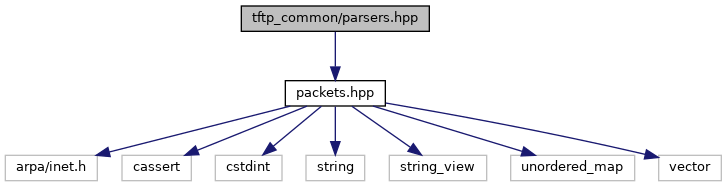
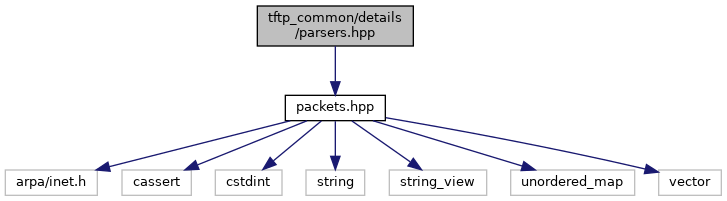
Deploying to gh-pages from @ eoan-ermine/tftp_common@93c7ecd1760b97784c4ff6c49aa9ff2b97add7f5 🚀

diff --git a/dir_57ea95dc5d5923c93e274c5d2903e198.html b/dir_57ea95dc5d5923c93e274c5d2903e198.html
@@ -5,7 +5,7 @@
 <meta http-equiv="X-UA-Compatible" content="IE=9"/>
 <meta name="generator" content="Doxygen 1.9.1"/>
 <meta name="viewport" content="width=device-width, initial-scale=1"/>
-<title>TFTP Common: File List</title>
+<title>TFTP Common: tftp_common/details Directory Reference</title>
 <link href="tabs.css" rel="stylesheet" type="text/css"/>
 <script type="text/javascript" src="jquery.js"></script>
 <script type="text/javascript" src="dynsections.js"></script>
@@ -46,7 +46,6 @@ $(function() {
 });
 /* @license-end */</script>
 <div id="main-nav"></div>
-</div><!-- top -->
 <!-- window showing the filter options -->
 <div id="MSearchSelectWindow"
      onmouseover="return searchBox.OnSearchSelectShow()"
@@ -61,20 +60,24 @@ $(function() {
 </iframe>
 </div>
 
+<div id="nav-path" class="navpath">
+  <ul>
+<li class="navelem"><a class="el" href="dir_08e0715417ce0e866f8e0838f603d3e9.html">tftp_common</a></li><li class="navelem"><a class="el" href="dir_57ea95dc5d5923c93e274c5d2903e198.html">details</a></li>  </ul>
+</div>
+</div><!-- top -->
 <div class="header">
   <div class="headertitle">
-<div class="title">File List</div>  </div>
+<div class="title">details Directory Reference</div>  </div>
 </div><!--header-->
 <div class="contents">
-<div class="textblock">Here is a list of all files with brief descriptions:</div><div class="directory">
-<div class="levels">[detail level <span onclick="javascript:toggleLevel(1);">1</span><span onclick="javascript:toggleLevel(2);">2</span><span onclick="javascript:toggleLevel(3);">3</span>]</div><table class="directory">
-<tr id="row_0_" class="even"><td class="entry"><span style="width:0px;display:inline-block;">&#160;</span><span id="arr_0_" class="arrow" onclick="toggleFolder('0_')">&#9660;</span><span id="img_0_" class="iconfopen" onclick="toggleFolder('0_')">&#160;</span><a class="el" href="dir_08e0715417ce0e866f8e0838f603d3e9.html" target="_self">tftp_common</a></td><td class="desc"></td></tr>
-<tr id="row_0_0_"><td class="entry"><span style="width:16px;display:inline-block;">&#160;</span><span id="arr_0_0_" class="arrow" onclick="toggleFolder('0_0_')">&#9660;</span><span id="img_0_0_" class="iconfopen" onclick="toggleFolder('0_0_')">&#160;</span><a class="el" href="dir_57ea95dc5d5923c93e274c5d2903e198.html" target="_self">details</a></td><td class="desc"></td></tr>
-<tr id="row_0_0_0_" class="even"><td class="entry"><span style="width:48px;display:inline-block;">&#160;</span><a href="packets_8hpp_source.html"><span class="icondoc"></span></a><a class="el" href="packets_8hpp.html" target="_self">packets.hpp</a></td><td class="desc"></td></tr>
-<tr id="row_0_0_1_"><td class="entry"><span style="width:48px;display:inline-block;">&#160;</span><a href="parsers_8hpp_source.html"><span class="icondoc"></span></a><a class="el" href="parsers_8hpp.html" target="_self">parsers.hpp</a></td><td class="desc"></td></tr>
-<tr id="row_0_1_" class="even"><td class="entry"><span style="width:32px;display:inline-block;">&#160;</span><a href="tftp__common_8hpp_source.html"><span class="icondoc"></span></a><a class="el" href="tftp__common_8hpp.html" target="_self">tftp_common.hpp</a></td><td class="desc"></td></tr>
+<table class="memberdecls">
+<tr class="heading"><td colspan="2"><h2 class="groupheader"><a name="files"></a>
+Files</h2></td></tr>
+<tr class="memitem:packets_8hpp"><td class="memItemLeft" align="right" valign="top">file &#160;</td><td class="memItemRight" valign="bottom"><a class="el" href="packets_8hpp.html">packets.hpp</a> <a href="packets_8hpp_source.html">[code]</a></td></tr>
+<tr class="separator:"><td class="memSeparator" colspan="2">&#160;</td></tr>
+<tr class="memitem:parsers_8hpp"><td class="memItemLeft" align="right" valign="top">file &#160;</td><td class="memItemRight" valign="bottom"><a class="el" href="parsers_8hpp.html">parsers.hpp</a> <a href="parsers_8hpp_source.html">[code]</a></td></tr>
+<tr class="separator:"><td class="memSeparator" colspan="2">&#160;</td></tr>
 </table>
-</div><!-- directory -->
 </div><!-- contents -->
 <!-- start footer part -->
 <hr class="footer"/><address class="footer"><small>

diff --git a/dir_000000_000001.html b/dir_000000_000001.html
@@ -5,7 +5,7 @@
 <meta http-equiv="X-UA-Compatible" content="IE=9"/>
 <meta name="generator" content="Doxygen 1.9.1"/>
 <meta name="viewport" content="width=device-width, initial-scale=1"/>
-<title>TFTP Common: File List</title>
+<title>TFTP Common: tftp_common -&gt; details Relation</title>
 <link href="tabs.css" rel="stylesheet" type="text/css"/>
 <script type="text/javascript" src="jquery.js"></script>
 <script type="text/javascript" src="dynsections.js"></script>
@@ -46,7 +46,6 @@ $(function() {
 });
 /* @license-end */</script>
 <div id="main-nav"></div>
-</div><!-- top -->
 <!-- window showing the filter options -->
 <div id="MSearchSelectWindow"
      onmouseover="return searchBox.OnSearchSelectShow()"
@@ -61,21 +60,13 @@ $(function() {
 </iframe>
 </div>
 
-<div class="header">
-  <div class="headertitle">
-<div class="title">File List</div>  </div>
-</div><!--header-->
+<div id="nav-path" class="navpath">
+  <ul>
+<li class="navelem"><a class="el" href="dir_08e0715417ce0e866f8e0838f603d3e9.html">tftp_common</a></li>  </ul>
+</div>
+</div><!-- top -->
 <div class="contents">
-<div class="textblock">Here is a list of all files with brief descriptions:</div><div class="directory">
-<div class="levels">[detail level <span onclick="javascript:toggleLevel(1);">1</span><span onclick="javascript:toggleLevel(2);">2</span><span onclick="javascript:toggleLevel(3);">3</span>]</div><table class="directory">
-<tr id="row_0_" class="even"><td class="entry"><span style="width:0px;display:inline-block;">&#160;</span><span id="arr_0_" class="arrow" onclick="toggleFolder('0_')">&#9660;</span><span id="img_0_" class="iconfopen" onclick="toggleFolder('0_')">&#160;</span><a class="el" href="dir_08e0715417ce0e866f8e0838f603d3e9.html" target="_self">tftp_common</a></td><td class="desc"></td></tr>
-<tr id="row_0_0_"><td class="entry"><span style="width:16px;display:inline-block;">&#160;</span><span id="arr_0_0_" class="arrow" onclick="toggleFolder('0_0_')">&#9660;</span><span id="img_0_0_" class="iconfopen" onclick="toggleFolder('0_0_')">&#160;</span><a class="el" href="dir_57ea95dc5d5923c93e274c5d2903e198.html" target="_self">details</a></td><td class="desc"></td></tr>
-<tr id="row_0_0_0_" class="even"><td class="entry"><span style="width:48px;display:inline-block;">&#160;</span><a href="packets_8hpp_source.html"><span class="icondoc"></span></a><a class="el" href="packets_8hpp.html" target="_self">packets.hpp</a></td><td class="desc"></td></tr>
-<tr id="row_0_0_1_"><td class="entry"><span style="width:48px;display:inline-block;">&#160;</span><a href="parsers_8hpp_source.html"><span class="icondoc"></span></a><a class="el" href="parsers_8hpp.html" target="_self">parsers.hpp</a></td><td class="desc"></td></tr>
-<tr id="row_0_1_" class="even"><td class="entry"><span style="width:32px;display:inline-block;">&#160;</span><a href="tftp__common_8hpp_source.html"><span class="icondoc"></span></a><a class="el" href="tftp__common_8hpp.html" target="_self">tftp_common.hpp</a></td><td class="desc"></td></tr>
-</table>
-</div><!-- directory -->
-</div><!-- contents -->
+<h3>tftp_common &rarr; details Relation</h3><table class="dirtab"><tr class="dirtab"><th class="dirtab">File in tftp_common</th><th class="dirtab">Includes file in tftp_common/details</th></tr><tr class="dirtab"><td class="dirtab"><a class="el" href="tftp__common_8hpp.html">tftp_common.hpp</a></td><td class="dirtab"><a class="el" href="packets_8hpp.html">packets.hpp</a></td></tr><tr class="dirtab"><td class="dirtab"><a class="el" href="tftp__common_8hpp.html">tftp_common.hpp</a></td><td class="dirtab"><a class="el" href="parsers_8hpp.html">parsers.hpp</a></td></tr></table></div><!-- contents -->
 <!-- start footer part -->
 <hr class="footer"/><address class="footer"><small>
 Generated by&#160;<a href="https://www.doxygen.org/index.html"><img class="footer" src="doxygen.svg" width="104" height="31" alt="doxygen"/></a> 1.9.1

diff --git a/parsers_8hpp.html b/parsers_8hpp.html
@@ -5,7 +5,7 @@
 <meta http-equiv="X-UA-Compatible" content="IE=9"/>
 <meta name="generator" content="Doxygen 1.9.1"/>
 <meta name="viewport" content="width=device-width, initial-scale=1"/>
-<title>TFTP Common: tftp_common/parsers.hpp File Reference</title>
+<title>TFTP Common: tftp_common/details/parsers.hpp File Reference</title>
 <link href="tabs.css" rel="stylesheet" type="text/css"/>
 <script type="text/javascript" src="jquery.js"></script>
 <script type="text/javascript" src="dynsections.js"></script>
@@ -62,7 +62,7 @@ $(function() {
 
 <div id="nav-path" class="navpath">
   <ul>
-<li class="navelem"><a class="el" href="dir_08e0715417ce0e866f8e0838f603d3e9.html">tftp_common</a></li>  </ul>
+<li class="navelem"><a class="el" href="dir_08e0715417ce0e866f8e0838f603d3e9.html">tftp_common</a></li><li class="navelem"><a class="el" href="dir_57ea95dc5d5923c93e274c5d2903e198.html">details</a></li>  </ul>
 </div>
 </div><!-- top -->
 <div class="header">
@@ -78,26 +78,26 @@ $(function() {
 </div><div class="textblock"><div class="dynheader">
 Include dependency graph for parsers.hpp:</div>
 <div class="dyncontent">
-<div class="center"><img src="parsers_8hpp__incl.png" border="0" usemap="#atftp__common_2parsers_8hpp" alt=""/></div>
-<map name="atftp__common_2parsers_8hpp" id="atftp__common_2parsers_8hpp">
-<area shape="rect" title=" " alt="" coords="241,5,429,32"/>
-<area shape="rect" href="packets_8hpp.html" title=" " alt="" coords="285,80,385,107"/>
-<area shape="rect" title=" " alt="" coords="5,155,97,181"/>
-<area shape="rect" title=" " alt="" coords="122,155,191,181"/>
-<area shape="rect" title=" " alt="" coords="215,155,282,181"/>
-<area shape="rect" title=" " alt="" coords="306,155,365,181"/>
-<area shape="rect" title=" " alt="" coords="389,155,487,181"/>
-<area shape="rect" title=" " alt="" coords="511,155,635,181"/>
-<area shape="rect" title=" " alt="" coords="659,155,721,181"/>
+<div class="center"><img src="parsers_8hpp__incl.png" border="0" usemap="#atftp__common_2details_2parsers_8hpp" alt=""/></div>
+<map name="atftp__common_2details_2parsers_8hpp" id="atftp__common_2details_2parsers_8hpp">
+<area shape="rect" title=" " alt="" coords="257,5,413,47"/>
+<area shape="rect" href="packets_8hpp.html" title=" " alt="" coords="285,95,385,121"/>
+<area shape="rect" title=" " alt="" coords="5,169,97,196"/>
+<area shape="rect" title=" " alt="" coords="122,169,191,196"/>
+<area shape="rect" title=" " alt="" coords="215,169,282,196"/>
+<area shape="rect" title=" " alt="" coords="306,169,365,196"/>
+<area shape="rect" title=" " alt="" coords="389,169,487,196"/>
+<area shape="rect" title=" " alt="" coords="511,169,635,196"/>
+<area shape="rect" title=" " alt="" coords="659,169,721,196"/>
 </map>
 </div>
 </div><div class="textblock"><div class="dynheader">
 This graph shows which files directly or indirectly include this file:</div>
 <div class="dyncontent">
-<div class="center"><img src="parsers_8hpp__dep__incl.png" border="0" usemap="#atftp__common_2parsers_8hppdep" alt=""/></div>
-<map name="atftp__common_2parsers_8hppdep" id="atftp__common_2parsers_8hppdep">
-<area shape="rect" title=" " alt="" coords="25,5,213,32"/>
-<area shape="rect" href="tftp__common_8hpp.html" title=" " alt="" coords="5,80,232,107"/>
+<div class="center"><img src="parsers_8hpp__dep__incl.png" border="0" usemap="#atftp__common_2details_2parsers_8hppdep" alt=""/></div>
+<map name="atftp__common_2details_2parsers_8hppdep" id="atftp__common_2details_2parsers_8hppdep">
+<area shape="rect" title=" " alt="" coords="41,5,197,47"/>
+<area shape="rect" href="tftp__common_8hpp.html" title=" " alt="" coords="5,95,232,121"/>
 </map>
 </div>
 </div>

diff --git a/packets_8hpp.html b/packets_8hpp.html
@@ -5,7 +5,7 @@
 <meta http-equiv="X-UA-Compatible" content="IE=9"/>
 <meta name="generator" content="Doxygen 1.9.1"/>
 <meta name="viewport" content="width=device-width, initial-scale=1"/>
-<title>TFTP Common: tftp_common/packets.hpp File Reference</title>
+<title>TFTP Common: tftp_common/details/packets.hpp File Reference</title>
 <link href="tabs.css" rel="stylesheet" type="text/css"/>
 <script type="text/javascript" src="jquery.js"></script>
 <script type="text/javascript" src="dynsections.js"></script>
@@ -62,7 +62,7 @@ $(function() {
 
 <div id="nav-path" class="navpath">
   <ul>
-<li class="navelem"><a class="el" href="dir_08e0715417ce0e866f8e0838f603d3e9.html">tftp_common</a></li>  </ul>
+<li class="navelem"><a class="el" href="dir_08e0715417ce0e866f8e0838f603d3e9.html">tftp_common</a></li><li class="navelem"><a class="el" href="dir_57ea95dc5d5923c93e274c5d2903e198.html">details</a></li>  </ul>
 </div>
 </div><!-- top -->
 <div class="header">
@@ -84,26 +84,26 @@ $(function() {
 </div><div class="textblock"><div class="dynheader">
 Include dependency graph for packets.hpp:</div>
 <div class="dyncontent">
-<div class="center"><img src="packets_8hpp__incl.png" border="0" usemap="#atftp__common_2packets_8hpp" alt=""/></div>
-<map name="atftp__common_2packets_8hpp" id="atftp__common_2packets_8hpp">
-<area shape="rect" title=" " alt="" coords="240,5,431,32"/>
-<area shape="rect" title=" " alt="" coords="5,80,97,107"/>
-<area shape="rect" title=" " alt="" coords="122,80,191,107"/>
-<area shape="rect" title=" " alt="" coords="215,80,282,107"/>
-<area shape="rect" title=" " alt="" coords="306,80,365,107"/>
-<area shape="rect" title=" " alt="" coords="389,80,487,107"/>
-<area shape="rect" title=" " alt="" coords="511,80,635,107"/>
-<area shape="rect" title=" " alt="" coords="659,80,721,107"/>
+<div class="center"><img src="packets_8hpp__incl.png" border="0" usemap="#atftp__common_2details_2packets_8hpp" alt=""/></div>
+<map name="atftp__common_2details_2packets_8hpp" id="atftp__common_2details_2packets_8hpp">
+<area shape="rect" title=" " alt="" coords="257,5,413,47"/>
+<area shape="rect" title=" " alt="" coords="5,95,97,121"/>
+<area shape="rect" title=" " alt="" coords="122,95,191,121"/>
+<area shape="rect" title=" " alt="" coords="215,95,282,121"/>
+<area shape="rect" title=" " alt="" coords="306,95,365,121"/>
+<area shape="rect" title=" " alt="" coords="389,95,487,121"/>
+<area shape="rect" title=" " alt="" coords="511,95,635,121"/>
+<area shape="rect" title=" " alt="" coords="659,95,721,121"/>
 </map>
 </div>
 </div><div class="textblock"><div class="dynheader">
 This graph shows which files directly or indirectly include this file:</div>
 <div class="dyncontent">
-<div class="center"><img src="packets_8hpp__dep__incl.png" border="0" usemap="#atftp__common_2packets_8hppdep" alt=""/></div>
-<map name="atftp__common_2packets_8hppdep" id="atftp__common_2packets_8hppdep">
-<area shape="rect" title=" " alt="" coords="69,5,260,32"/>
-<area shape="rect" href="parsers_8hpp.html" title=" " alt="" coords="5,80,193,107"/>
-<area shape="rect" href="tftp__common_8hpp.html" title=" " alt="" coords="51,155,278,181"/>
+<div class="center"><img src="packets_8hpp__dep__incl.png" border="0" usemap="#atftp__common_2details_2packets_8hppdep" alt=""/></div>
+<map name="atftp__common_2details_2packets_8hppdep" id="atftp__common_2details_2packets_8hppdep">
+<area shape="rect" title=" " alt="" coords="63,5,219,47"/>
+<area shape="rect" href="parsers_8hpp.html" title=" " alt="" coords="5,95,161,136"/>
+<area shape="rect" href="tftp__common_8hpp.html" title=" " alt="" coords="27,184,254,211"/>
 </map>
 </div>
 </div>

diff --git a/dir_08e0715417ce0e866f8e0838f603d3e9.html b/dir_08e0715417ce0e866f8e0838f603d3e9.html
@@ -70,13 +70,24 @@ $(function() {
 <div class="title">tftp_common Directory Reference</div>  </div>
 </div><!--header-->
 <div class="contents">
+<div class="dynheader">
+Directory dependency graph for tftp_common:</div>
+<div class="dyncontent">
+<div class="center"><img src="dir_08e0715417ce0e866f8e0838f603d3e9_dep.png" border="0" usemap="#adir__08e0715417ce0e866f8e0838f603d3e9__dep" alt="tftp_common"/></div>
+<map name="adir__08e0715417ce0e866f8e0838f603d3e9__dep" id="adir__08e0715417ce0e866f8e0838f603d3e9__dep">
+<area shape="rect" href="dir_57ea95dc5d5923c93e274c5d2903e198.html" title="details" alt="" coords="45,123,117,171"/>
+<area shape="rect" href="dir_000000_000001.html" title="2" alt="" coords="85,97,94,112"/>
+<area shape="rect" href="dir_08e0715417ce0e866f8e0838f603d3e9.html" alt="" coords="16,16,147,181"/>
+</map>
+</div>
 <table class="memberdecls">
+<tr class="heading"><td colspan="2"><h2 class="groupheader"><a name="subdirs"></a>
+Directories</h2></td></tr>
+<tr class="memitem:dir_57ea95dc5d5923c93e274c5d2903e198"><td class="memItemLeft" align="right" valign="top">directory &#160;</td><td class="memItemRight" valign="bottom"><a class="el" href="dir_57ea95dc5d5923c93e274c5d2903e198.html">details</a></td></tr>
+<tr class="separator:"><td class="memSeparator" colspan="2">&#160;</td></tr>
+</table><table class="memberdecls">
 <tr class="heading"><td colspan="2"><h2 class="groupheader"><a name="files"></a>
 Files</h2></td></tr>
-<tr class="memitem:packets_8hpp"><td class="memItemLeft" align="right" valign="top">file &#160;</td><td class="memItemRight" valign="bottom"><a class="el" href="packets_8hpp.html">packets.hpp</a> <a href="packets_8hpp_source.html">[code]</a></td></tr>
-<tr class="separator:"><td class="memSeparator" colspan="2">&#160;</td></tr>
-<tr class="memitem:parsers_8hpp"><td class="memItemLeft" align="right" valign="top">file &#160;</td><td class="memItemRight" valign="bottom"><a class="el" href="parsers_8hpp.html">parsers.hpp</a> <a href="parsers_8hpp_source.html">[code]</a></td></tr>
-<tr class="separator:"><td class="memSeparator" colspan="2">&#160;</td></tr>
 <tr class="memitem:tftp__common_8hpp"><td class="memItemLeft" align="right" valign="top">file &#160;</td><td class="memItemRight" valign="bottom"><a class="el" href="tftp__common_8hpp.html">tftp_common.hpp</a> <a href="tftp__common_8hpp_source.html">[code]</a></td></tr>
 <tr class="separator:"><td class="memSeparator" colspan="2">&#160;</td></tr>
 </table>

diff --git a/tftp__common_8hpp.html b/tftp__common_8hpp.html
@@ -70,16 +70,16 @@ $(function() {
 <div class="title">tftp_common.hpp File Reference</div>  </div>
 </div><!--header-->
 <div class="contents">
-<div class="textblock"><code>#include &quot;<a class="el" href="packets_8hpp_source.html">packets.hpp</a>&quot;</code><br />
-<code>#include &quot;<a class="el" href="parsers_8hpp_source.html">parsers.hpp</a>&quot;</code><br />
+<div class="textblock"><code>#include &quot;<a class="el" href="packets_8hpp_source.html">details/packets.hpp</a>&quot;</code><br />
+<code>#include &quot;<a class="el" href="parsers_8hpp_source.html">details/parsers.hpp</a>&quot;</code><br />
 </div><div class="textblock"><div class="dynheader">
 Include dependency graph for tftp_common.hpp:</div>
 <div class="dyncontent">
 <div class="center"><img src="tftp__common_8hpp__incl.png" border="0" usemap="#atftp__common_2tftp__common_8hpp" alt=""/></div>
 <map name="atftp__common_2tftp__common_8hpp" id="atftp__common_2tftp__common_8hpp">
 <area shape="rect" title=" " alt="" coords="222,5,449,32"/>
-<area shape="rect" href="packets_8hpp.html" title=" " alt="" coords="285,155,385,181"/>
-<area shape="rect" href="parsers_8hpp.html" title=" " alt="" coords="330,80,429,107"/>
+<area shape="rect" href="packets_8hpp.html" title=" " alt="" coords="261,155,409,181"/>
+<area shape="rect" href="parsers_8hpp.html" title=" " alt="" coords="318,80,465,107"/>
 <area shape="rect" title=" " alt="" coords="5,229,97,256"/>
 <area shape="rect" title=" " alt="" coords="122,229,191,256"/>
 <area shape="rect" title=" " alt="" coords="215,229,282,256"/>

diff --git a/tftp__common_8hpp_source.html b/tftp__common_8hpp_source.html
@@ -72,8 +72,8 @@ $(function() {
 <div class="contents">
 <a href="tftp__common_8hpp.html">Go to the documentation of this file.</a><div class="fragment"><div class="line"><a name="l00001"></a><span class="lineno">    1</span>&#160;<span class="preprocessor">#pragma once</span></div>
 <div class="line"><a name="l00002"></a><span class="lineno">    2</span>&#160; </div>
-<div class="line"><a name="l00003"></a><span class="lineno">    3</span>&#160;<span class="preprocessor">#include &quot;<a class="code" href="packets_8hpp.html">packets.hpp</a>&quot;</span></div>
-<div class="line"><a name="l00004"></a><span class="lineno">    4</span>&#160;<span class="preprocessor">#include &quot;<a class="code" href="parsers_8hpp.html">parsers.hpp</a>&quot;</span></div>
+<div class="line"><a name="l00003"></a><span class="lineno">    3</span>&#160;<span class="preprocessor">#include &quot;<a class="code" href="packets_8hpp.html">details/packets.hpp</a>&quot;</span></div>
+<div class="line"><a name="l00004"></a><span class="lineno">    4</span>&#160;<span class="preprocessor">#include &quot;<a class="code" href="parsers_8hpp.html">details/parsers.hpp</a>&quot;</span></div>
 <div class="ttc" id="apackets_8hpp_html"><div class="ttname"><a href="packets_8hpp.html">packets.hpp</a></div></div>
 <div class="ttc" id="aparsers_8hpp_html"><div class="ttname"><a href="parsers_8hpp.html">parsers.hpp</a></div></div>
 </div><!-- fragment --></div><!-- contents -->

diff --git a/packets_8hpp_source.html b/packets_8hpp_source.html
@@ -5,7 +5,7 @@
 <meta http-equiv="X-UA-Compatible" content="IE=9"/>
 <meta name="generator" content="Doxygen 1.9.1"/>
 <meta name="viewport" content="width=device-width, initial-scale=1"/>
-<title>TFTP Common: tftp_common/packets.hpp Source File</title>
+<title>TFTP Common: tftp_common/details/packets.hpp Source File</title>
 <link href="tabs.css" rel="stylesheet" type="text/css"/>
 <script type="text/javascript" src="jquery.js"></script>
 <script type="text/javascript" src="dynsections.js"></script>
@@ -62,7 +62,7 @@ $(function() {
 
 <div id="nav-path" class="navpath">
   <ul>
-<li class="navelem"><a class="el" href="dir_08e0715417ce0e866f8e0838f603d3e9.html">tftp_common</a></li>  </ul>
+<li class="navelem"><a class="el" href="dir_08e0715417ce0e866f8e0838f603d3e9.html">tftp_common</a></li><li class="navelem"><a class="el" href="dir_57ea95dc5d5923c93e274c5d2903e198.html">details</a></li>  </ul>
 </div>
 </div><!-- top -->
 <div class="header">

diff --git a/parsers_8hpp_source.html b/parsers_8hpp_source.html
@@ -5,7 +5,7 @@
 <meta http-equiv="X-UA-Compatible" content="IE=9"/>
 <meta name="generator" content="Doxygen 1.9.1"/>
 <meta name="viewport" content="width=device-width, initial-scale=1"/>
-<title>TFTP Common: tftp_common/parsers.hpp Source File</title>
+<title>TFTP Common: tftp_common/details/parsers.hpp Source File</title>
 <link href="tabs.css" rel="stylesheet" type="text/css"/>
 <script type="text/javascript" src="jquery.js"></script>
 <script type="text/javascript" src="dynsections.js"></script>
@@ -62,7 +62,7 @@ $(function() {
 
 <div id="nav-path" class="navpath">
   <ul>
-<li class="navelem"><a class="el" href="dir_08e0715417ce0e866f8e0838f603d3e9.html">tftp_common</a></li>  </ul>
+<li class="navelem"><a class="el" href="dir_08e0715417ce0e866f8e0838f603d3e9.html">tftp_common</a></li><li class="navelem"><a class="el" href="dir_57ea95dc5d5923c93e274c5d2903e198.html">details</a></li>  </ul>
 </div>
 </div><!-- top -->
 <div class="header">

diff --git a/classtftp__common_1_1packets_1_1Acknowledgment.html b/classtftp__common_1_1packets_1_1Acknowledgment.html
@@ -300,7 +300,7 @@ template&lt;class OutputIterator &gt; </div>
 </div>
 </div>
 <hr/>The documentation for this class was generated from the following file:<ul>
-<li>tftp_common/<a class="el" href="packets_8hpp_source.html">packets.hpp</a></li>
+<li>tftp_common/details/<a class="el" href="packets_8hpp_source.html">packets.hpp</a></li>
 </ul>
 </div><!-- contents -->
 <!-- start footer part -->

diff --git a/classtftp__common_1_1packets_1_1Data.html b/classtftp__common_1_1packets_1_1Data.html
@@ -383,7 +383,7 @@ template&lt;class OutputIterator &gt; </div>
 </div>
 </div>
 <hr/>The documentation for this class was generated from the following file:<ul>
-<li>tftp_common/<a class="el" href="packets_8hpp_source.html">packets.hpp</a></li>
+<li>tftp_common/details/<a class="el" href="packets_8hpp_source.html">packets.hpp</a></li>
 </ul>
 </div><!-- contents -->
 <!-- start footer part -->

diff --git a/classtftp__common_1_1packets_1_1Error.html b/classtftp__common_1_1packets_1_1Error.html
@@ -381,7 +381,7 @@ template&lt;class OutputIterator &gt; </div>
 </div>
 </div>
 <hr/>The documentation for this class was generated from the following file:<ul>
-<li>tftp_common/<a class="el" href="packets_8hpp_source.html">packets.hpp</a></li>
+<li>tftp_common/details/<a class="el" href="packets_8hpp_source.html">packets.hpp</a></li>
 </ul>
 </div><!-- contents -->
 <!-- start footer part -->
